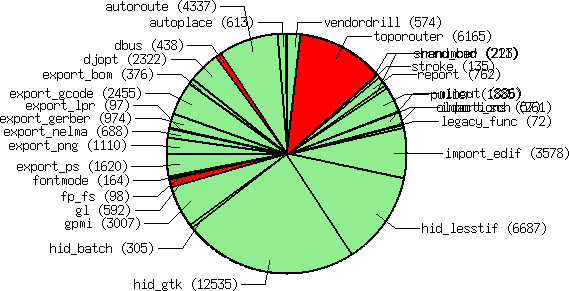
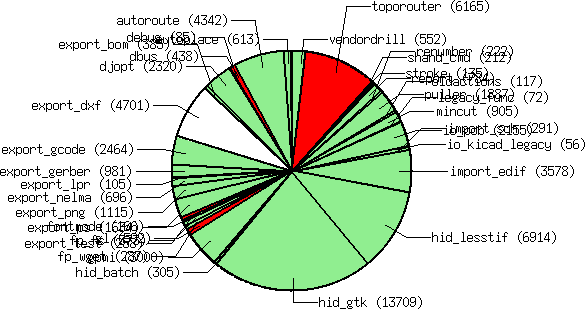
[doc-rnd] -Update: mods3 numbers and list of modules
git-svn-id: svn://repo.hu/pcb-rnd/trunk@2412 1d61de99-560f-4dba-8957-1e505d42358b

diff --git a/doc-rnd/mods3/index.html b/doc-rnd/mods3/index.html
@@ -12,7 +12,7 @@ It has dynamic loadable plugins and the GUI and exporters are in separate
 HID modules. While working on pcb-gpmi and later pcb-rnd, I added the
 gpmi module as a separate plugin.
 <p>
-In version 1.0.8 and 1.0.9 a cosiderable chunk of core code has been moved into
+In version 1.0.8 to 1.1.0 a cosiderable chunk of core code has been moved into
 <i>core plugins</i>. A <i>core plugin</i> is just a plugin that is
 maintained together with the core, in the same repository, still the code is
 somewhat detached from the core. More importantly, the user can choose, for
@@ -42,7 +42,7 @@ slices of pie charts are the major components of the pcb-rnd executable.
 	<tr><td>Before modularization: pcb-rnd version 1.0.7
 	        <br>Note: gpmi was already a plugin
 	    <td>
-	    <td> After modularization: pcb-rnd version 1.0.9
+	    <td> After modularization: pcb-rnd version 1.1.0
 	        <br>Note: gpmi is part of the "plugins" slice
 	</table>
 </table>
@@ -63,7 +63,7 @@ Below is a table with the summary of core plugins.
 <td bgcolor="lightgreen"> buildin
 <td> (feature)
 <td> Automatically place elements. 
-<tr><th align=left>autoroute<td>4337
+<tr><th align=left>autoroute<td>4342
 <td bgcolor="lightgreen" > works
 <td bgcolor="lightgreen"> buildin
 <td> (feature)
@@ -74,63 +74,84 @@ Below is a table with the summary of core plugins.
 <td bgcolor="red"> disabled
 <td> (feature)
 <td> Remote control PCB using DBUS. 
-<tr><th align=left>djopt<td>2322
+<tr><th align=left>debug<td>85
+<td bgcolor="lightgreen" > works
+<td bgcolor="red"> disabled
+<td> (feature)
+<td> Actions that help developer to debug pcb core. These are not in core because end users normally don't need these. As a plugin, due to dynamic loading, it can be dropped on an existing pcb installation with minimal risk of scaring away a reproducible bug. 
+<tr><th align=left>djopt<td>2320
 <td bgcolor="lightgreen" > works
 <td bgcolor="lightgreen"> buildin
 <td> (feature)
 <td> Various board optimization algorithms. 
-<tr><th align=left>export_bom<td>376
+<tr><th align=left>export_bom<td>385
 <td bgcolor="lightgreen" > works
 <td bgcolor="lightgreen"> buildin
 <td> export
 <td> Export bom (Bill of Materials) 
-<tr><th align=left>export_gcode<td>2455
+<tr><th align=left>export_dxf<td>4701
+<td  >
+<td >
+<td>
+<td> The pcb DXF HID is a DXF exporter for pcb.  The pcb DXF HID exports the loaded pcb layout to a series of DXF files, typically one file for every layer, a DXF file for inserting elements by means of "XREFS" (in AutoCAD jargon also known as eXternal REFerenced drawings), and DXF files for plated and non-plated holes.  These external referenced drawings can be 3D models of elements (ACIS), including DDE/OLE attributes of any other application that is supported by both AutoCAD (or any alternative software that supports these  features) and the (Microsoft) Operating System of your choice.  The parameters for the DXF exporter are:  --dxffile  This is the basename of the generated files. Layer-, top and bottom mask-, top and bottom paste, and drill-filenames are based upon this string.  --metric Tick for mm, default is mil.  --layer-color-BYBLOCK Tick for layer color is BYBLOCK, default layer color is BYLAYER.  --xrefs Tick for generating an eXternal REFerence file, default is none.  --xreffile This string should contain the pathname of the location where your XREF drawing files exist.  --verbose Tick if you want to see a full report on stderr of what entities are written to the files, default is silent.  --export-all-layers Tick if you want to export all layers, default is to not export empty layers.  -------------------------------------------------------------------------                             COPYRIGHT  The pcb DXF HID is covered by the GNU General Public License. See the individual files for the exact copyright notices. 
+<tr><th align=left>export_gcode<td>2464
 <td bgcolor="lightgreen" > works
 <td bgcolor="lightgreen"> buildin
 <td> export
 <td> Export to gcode 
-<tr><th align=left>export_gerber<td>974
+<tr><th align=left>export_gerber<td>981
 <td bgcolor="lightgreen" > works
 <td bgcolor="lightgreen"> buildin
 <td> export
 <td> Export to gerber 
-<tr><th align=left>export_lpr<td>97
+<tr><th align=left>export_lpr<td>105
 <td bgcolor="lightgreen" > works
 <td bgcolor="lightgreen"> buildin
 <td> export
 <td> Export to lpr (using export_ps to generate postscript) 
-<tr><th align=left>export_nelma<td>688
+<tr><th align=left>export_nelma<td>696
 <td bgcolor="lightgreen" > works
 <td bgcolor="lightgreen"> buildin
 <td> export
 <td> Export to nelma (Numerical capacitance calculator) 
-<tr><th align=left>export_png<td>1110
+<tr><th align=left>export_png<td>1115
 <td bgcolor="lightgreen" > works
 <td bgcolor="lightgreen"> buildin
 <td> export
 <td> Export to png, gif and jpeg 
-<tr><th align=left>export_ps<td>1620
+<tr><th align=left>export_ps<td>1634
 <td bgcolor="lightgreen" > works
 <td bgcolor="lightgreen"> buildin
 <td> export
 <td> Export postscript or embedded postscript. 
-<tr><th align=left>fontmode<td>164
+<tr><th align=left>export_test<td>258
+<td bgcolor="red" > disabled
+<br> (work in progress)
+<td bgcolor="lightgreen"> buildin
+<td> export
+<td> A thin layer of code to dump exporter calls for testing the HID exporter API. 
+<tr><th align=left>fontmode<td>166
 <td bgcolor="lightgreen" > works
 <td bgcolor="lightgreen"> buildin
 <td> (feature)
 <td> Font editing actions. 
-<tr><th align=left>fp_fs<td>98
+<tr><th align=left>fp_fs<td>373
 <td bgcolor="lightgreen" > works
 <td bgcolor="lightgreen"> buildin
 <td> fp
 <td> Footprint: file system based implementation. Used to be called Newlib: load footprints from directories. Run external processes for the parametric footprints. 
+<tr><th align=left>fp_wget<td>287
+<td bgcolor="lightgreen" > works
+<td bgcolor="lightgreen"> buildin
+<td> fp
+<td> Footprint: get static (file) footprints from the web, e.g. from http://gedasymbols.org 
 <tr><th align=left>gl<td>592
 <td bgcolor="red" > disabled
 <br> (pcb-rnd has no support for opengl.)
 <td bgcolor="red"> disabled
 <td> (feature)
 <td> Common gl functions for hids. 
-<tr><th align=left>gpmi<td>3007
+<tr><th align=left>gpmi<td>3000
 <td bgcolor="lightgreen" > works
 <td bgcolor="lightgreen"> buildin
 <br> (if gpmi is installed)
@@ -141,12 +162,12 @@ Below is a table with the summary of core plugins.
 <td bgcolor="lightgreen"> buildin
 <td> hid
 <td> HID without GUI; read actions from stdin. 
-<tr><th align=left>hid_gtk<td>12535
+<tr><th align=left>hid_gtk<td>13709
 <td bgcolor="lightgreen" > works
 <td bgcolor="lightgreen"> buildin
 <td> hid
 <td> GUI: the GTK HID. 
-<tr><th align=left>hid_lesstif<td>6687
+<tr><th align=left>hid_lesstif<td>6914
 <td bgcolor="lightgreen" > works
 <td bgcolor="lightgreen"> buildin
 <td> hid
@@ -156,42 +177,52 @@ Below is a table with the summary of core plugins.
 <td bgcolor="lightgreen"> buildin
 <td> import
 <td> Import code for netlists in the EDIF format. 
-<tr><th align=left>import_sch<td>261
+<tr><th align=left>import_sch<td>291
 <td bgcolor="lightgreen" > works
 <td bgcolor="lightgreen"> buildin
 <td> import
 <td> Imports element and netlist data from the schematics (or some other source). 
+<tr><th align=left>io_kicad_legacy<td>56
+<td  > work-in-progress
+<td bgcolor="red"> disabled
+<td> io
+<td> Load and save the design and elements in Kicad's legacy format. 
+<tr><th align=left>io_pcb<td>2155
+<td bgcolor="lightgreen" > works
+<td bgcolor="lightgreen"> buildin
+<td> io
+<td> Load and save the design and elements in the original pcb text format. 
 <tr><th align=left>legacy_func<td>72
 <td bgcolor="lightgreen" > works
 <td bgcolor="lightgreen"> buildin
 <td> (lib)
 <td> Random collection of old/obsolete (legacy) functions. 3rd party plugins may depend on them. This module implements C functions and variables and does not register actions or flags. 
-<tr><th align=left>mincut<td>886
+<tr><th align=left>mincut<td>905
 <td bgcolor="lightgreen" > works
 <td bgcolor="lightgreen"> buildin
 <td> (feature)
 <td> Use the minimal cut algorithm to indicate shorts: instead of highlighting two random pins/pads, try to highlight the least number of objects that connect the two networks. 
-<tr><th align=left>oldactions<td>57
+<tr><th align=left>oldactions<td>117
 <td bgcolor="lightgreen" > works
 <td bgcolor="red"> disabled
 <td> (feature)
-<td> Random collection of old/obsolete actions. Bell(): audible feedback; DumpLibrary(): print footprint library on stdout 
-<tr><th align=left>puller<td>1885
+<td> Random collection of old/obsolete actions. Bell(): audible feedback; DumpLibrary(): print footprint library on stdout; a set of debug actions useful for writing pcb scripts: Debug(), DebugXY(), Return(). Old plugin actions to toggle or set settings that are now accessible via the unified config system (vendordrill, djopt) 
+<tr><th align=left>puller<td>1887
 <td bgcolor="lightgreen" > works
 <td bgcolor="lightgreen"> buildin
 <td> (feature)
 <td> Pull traces to minimize their length. 
-<tr><th align=left>renumber<td>223
+<tr><th align=left>renumber<td>222
 <td bgcolor="lightgreen" > works
 <td bgcolor="lightgreen"> buildin
 <td> (feature)
 <td> Renumber elements (renaming them) and generate a text file for back annotation. 
-<tr><th align=left>report<td>762
+<tr><th align=left>report<td>784
 <td bgcolor="lightgreen" > works
 <td bgcolor="lightgreen"> buildin
 <td> (feature)
 <td> Report() and ReportObject() actions - print a report about design objects. 
-<tr><th align=left>shand_cmd<td>211
+<tr><th align=left>shand_cmd<td>212
 <td bgcolor="lightgreen" > works
 <td bgcolor="lightgreen"> buildin
 <td> (feature)
@@ -207,7 +238,7 @@ Below is a table with the summary of core plugins.
 <td bgcolor="red"> disabled
 <td> (feature)
 <td> Automatically route selected or all rats using a topological algorithm. This is the new autorouter from 2009. 
-<tr><th align=left>vendordrill<td>574
+<tr><th align=left>vendordrill<td>552
 <td bgcolor="lightgreen" > works
 <td bgcolor="lightgreen"> buildin
 <td> (feature)
@@ -224,6 +255,7 @@ Each plugin implements a class (rarely a set of classes). Classes are:
 	<tr><td>import       <td> load alien formats into the design space
 	<tr><td>export       <td> save (parts of) the design space in alien formats
 	<tr><td>fp           <td> footprint (element) library implementation
+	<tr><td>io           <td> native file format (save & load) implementation
 </table>
 
 </body>

diff --git a/doc-rnd/mods3/pre.html b/doc-rnd/mods3/pre.html
@@ -12,7 +12,7 @@ It has dynamic loadable plugins and the GUI and exporters are in separate
 HID modules. While working on pcb-gpmi and later pcb-rnd, I added the
 gpmi module as a separate plugin.
 <p>
-In version 1.0.8 to 1.0.10 a cosiderable chunk of core code has been moved into
+In version 1.0.8 to 1.1.0 a cosiderable chunk of core code has been moved into
 <i>core plugins</i>. A <i>core plugin</i> is just a plugin that is
 maintained together with the core, in the same repository, still the code is
 somewhat detached from the core. More importantly, the user can choose, for

diff --git a/doc-rnd/mods3/post.html b/doc-rnd/mods3/post.html
@@ -10,6 +10,7 @@ Each plugin implements a class (rarely a set of classes). Classes are:
 	<tr><td>import       <td> load alien formats into the design space
 	<tr><td>export       <td> save (parts of) the design space in alien formats
 	<tr><td>fp           <td> footprint (element) library implementation
+	<tr><td>io           <td> native file format (save & load) implementation
 </table>
 
 </body>
